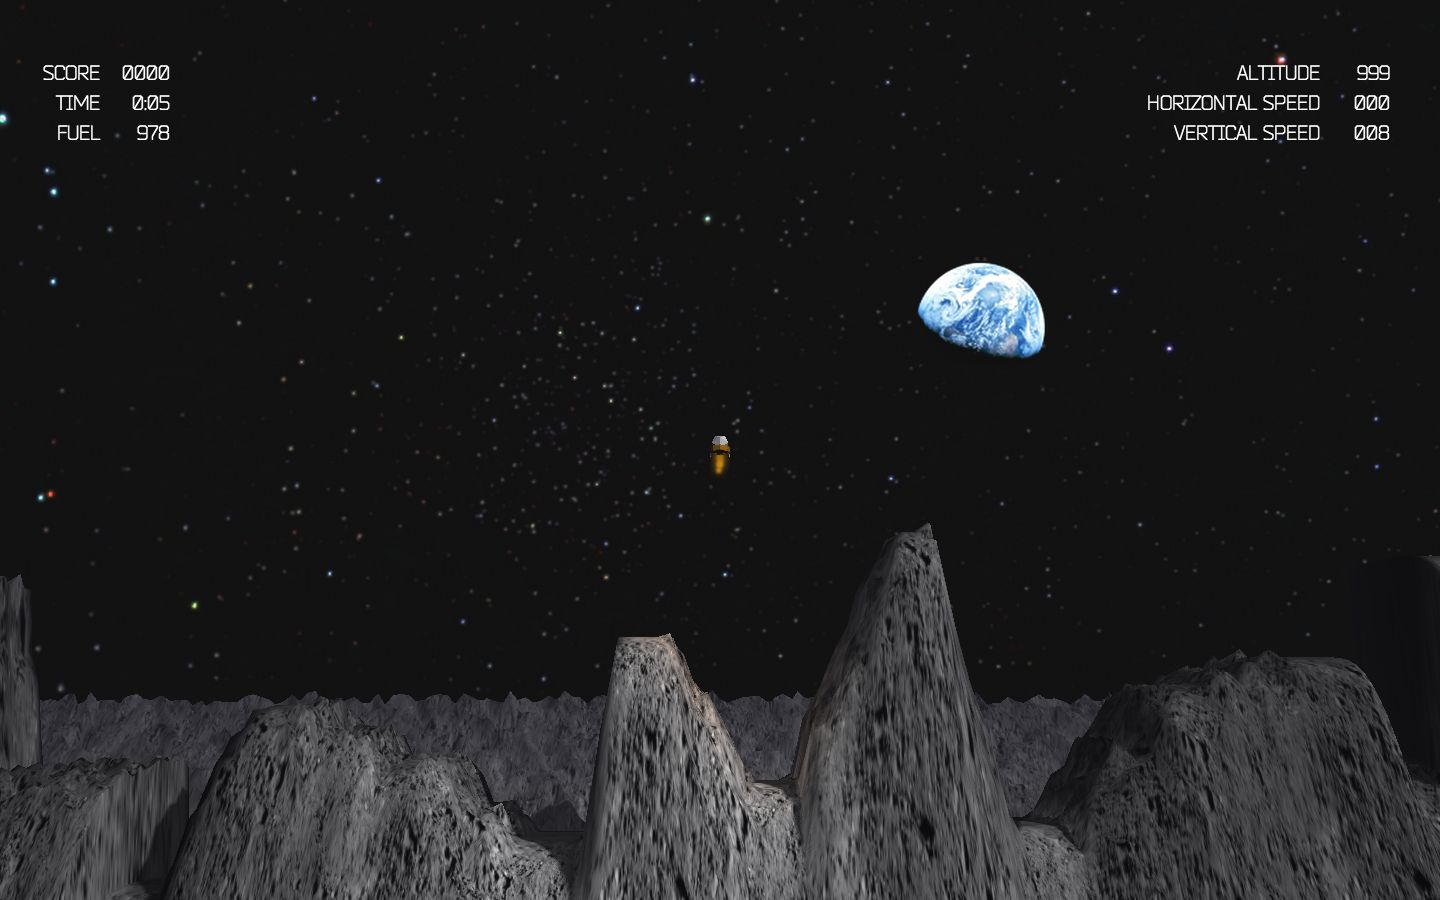
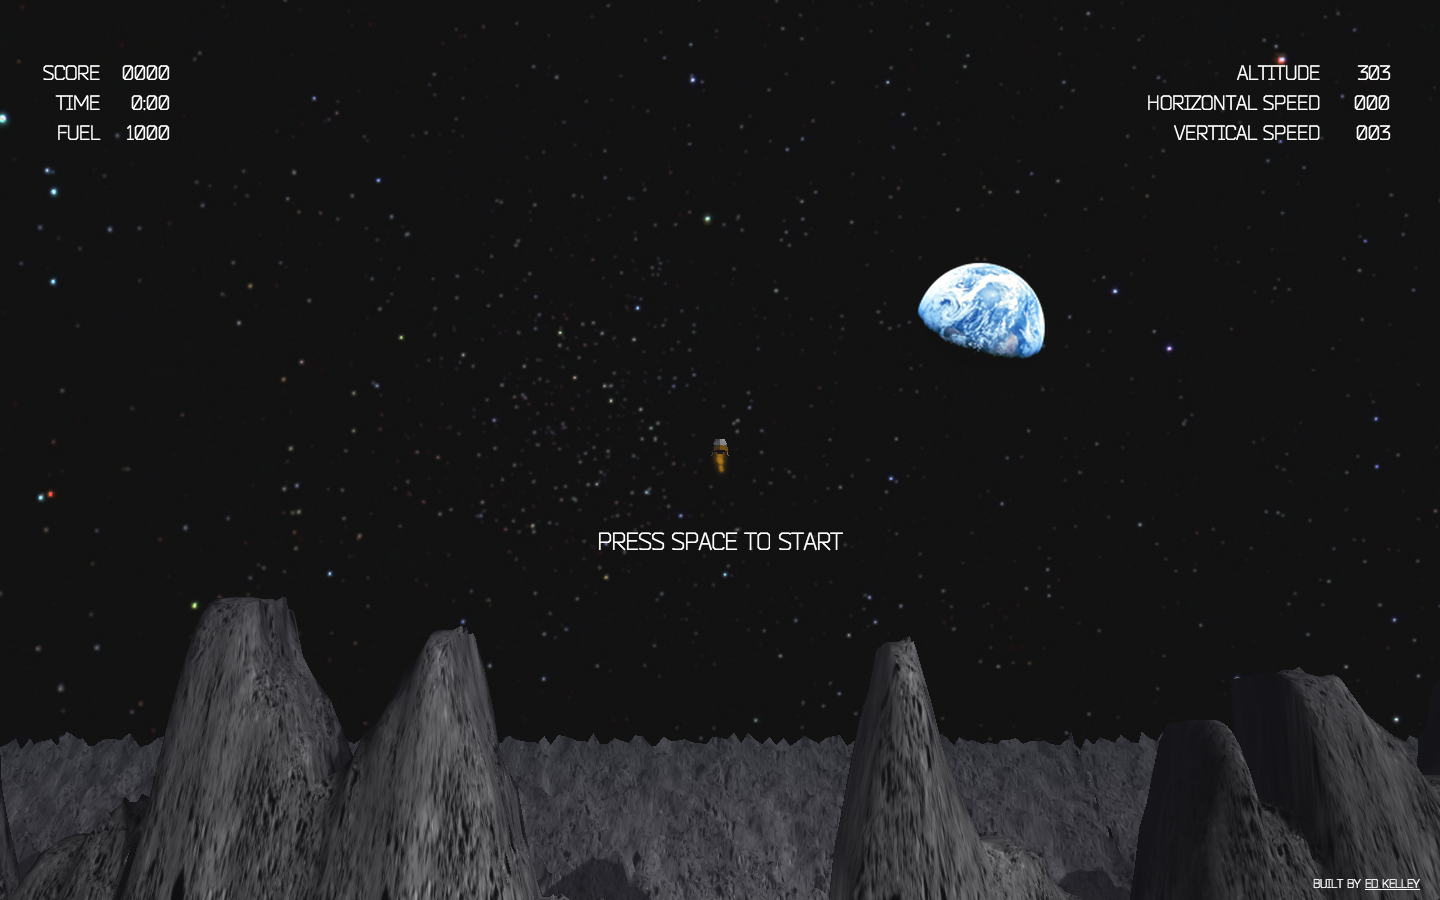
footnote and new screenshot

diff --git a/index.html b/index.html
@@ -26,6 +26,20 @@
 			-o-background-size: cover;
 			background-size: cover;
 		}
+
+		#footnote {
+			position: absolute;
+			bottom:10px;
+			right: 20px;
+			width: 100%;
+			font-family: 'BenderLight';
+			color: #FFFFFF;
+			font-size: 12px;
+			text-align: right;
+		}
+		#footnote a {
+			color: #FFFFFF;
+		}
 	</style>
 
 	<script type="text/javascript" src="js/underscore.js"></script>
@@ -46,6 +60,7 @@
 </head>
 
 <body style="overflow:hidden;">
+	<div id="footnote" style="z-index: 3">BUILT BY <a href="http://hoverboard.io/ekelleyv">ED KELLEY</a></div>
 </body>
 
 </html>

diff --git a/js/game.js b/js/game.js
@@ -272,13 +272,13 @@ Game.prototype.handle_landing = function(other_object, relative_velocity, relati
 	var vel = relative_velocity.length();
 
 	if (!this.landed) {
-		if (vel > 10) {
+		if (vel > 12) {
 			this.message = "CATASTROPHIC FAILURE";
 			this.game_status = "GAME OVER";
 			this.landing_type = 2;
 			this.lander.flames_on = true;
 		}
-		else if (vel > 6) {
+		else if (vel > 8) {
 			this.message = "HARD LANDING: 50PTS";
 			this.game_status = "GAME OVER";
 			this.score += 50;
